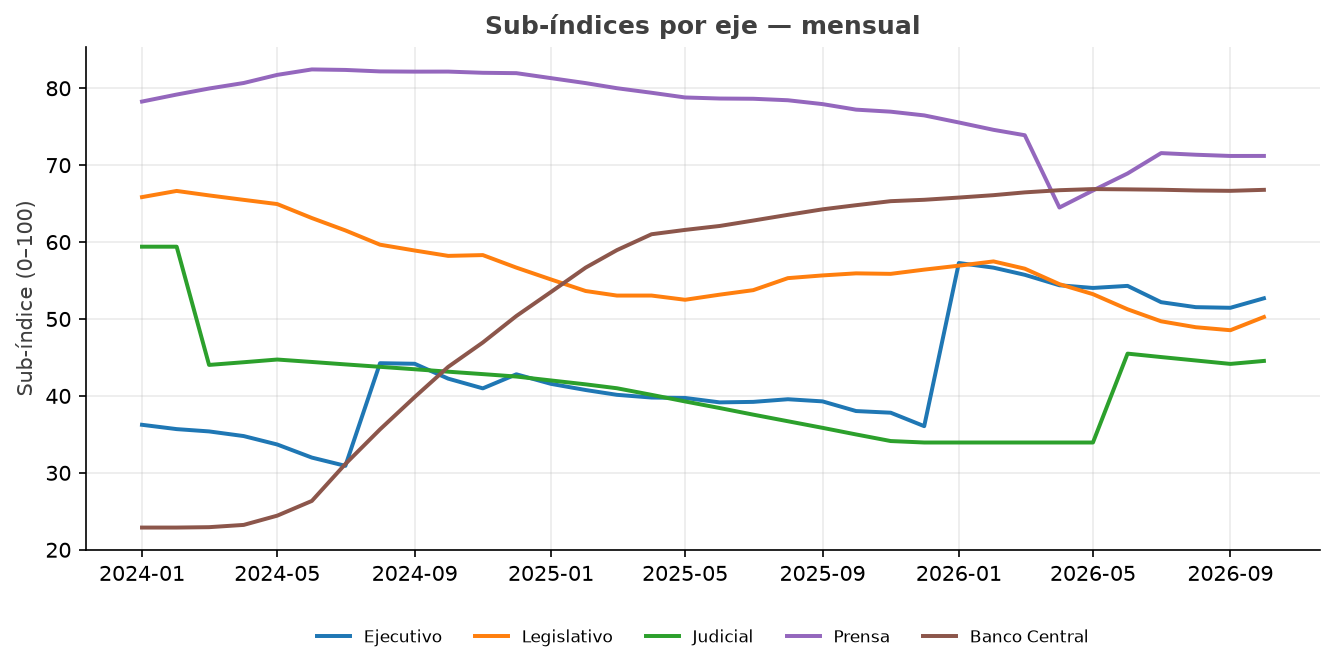
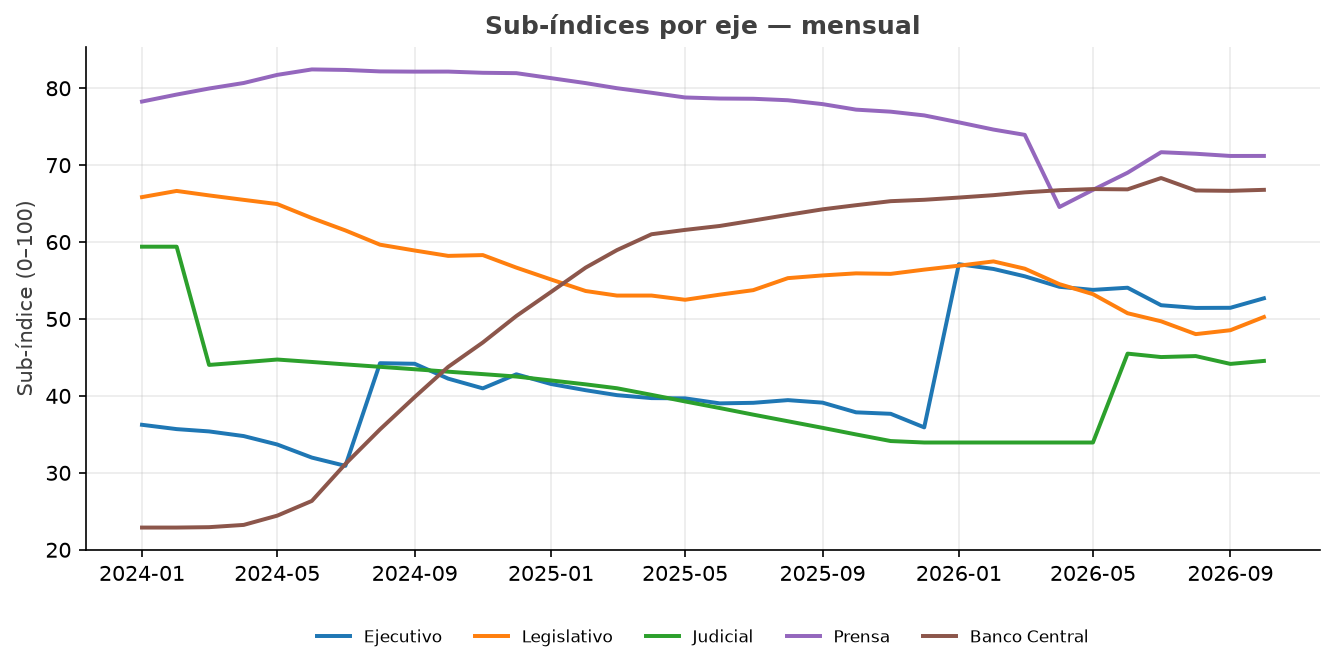
Gráficos regenerados con la serie publicada (meses cerrados del histórico)

diff --git a/MAPA.md b/MAPA.md
@@ -8,7 +8,7 @@
 
 Es el unico archivo del proyecto que hace falta leer para empezar. Para ubicar algo concreto: `python3 .mapa/buscar.py "<termino>"` devuelve archivo y linea sin abrir nada. Recien despues abrir los archivos que salgan, y solo esos.
 
-Rama `main` — ultimo commit: 2026-11-11 f5bc8ce Corrida mensual de septiembre y octubre 2026 (cierre) · **hay cambios sin commitear**
+Rama `main` — ultimo commit: 2026-11-11 e8a0530 Reporte mensual: comparar contra los meses cerrados del histÃ³rico congelado · **hay cambios sin commitear**
 
 ## Donde buscar que
 
@@ -129,8 +129,9 @@ Ordenados por cuantos otros archivos dependen de ellos. Tocar uno de arriba tien
 
 Segun el historial de git. Si vas a cambiar uno, mira el otro.
 
-- `.mapa/mapa.json` + `MAPA.md` (17 commits)
+- `.mapa/mapa.json` + `MAPA.md` (18 commits)
 - `output/_alertas_validacion.md` + `output/mia_reporte.md` (8 commits)
+- `00_Comun/BITACORA.md` + `00_Comun/generar_reporte_mensual.py` (4 commits)
 - `.mapa/mapa.json` + `output/_alertas_validacion.md` (4 commits)
 - `.mapa/mapa.json` + `output/mia_reporte.md` (4 commits)
 - `01_Poder_Ejecutivo/BITACORA.md` + `AGENTS.md` (4 commits)
@@ -138,7 +139,6 @@ Segun el historial de git. Si vas a cambiar uno, mira el otro.
 - `AGENTS.md` + `output/_alertas_validacion.md` (4 commits)
 - `MAPA.md` + `output/_alertas_validacion.md` (4 commits)
 - `MAPA.md` + `output/mia_reporte.md` (4 commits)
-- `.github/workflows/radar_nombramientos.yml` + `07_Radar_Nombramientos/radar_nombramientos.py` (4 commits)
 
 ## Fuentes externas
 
